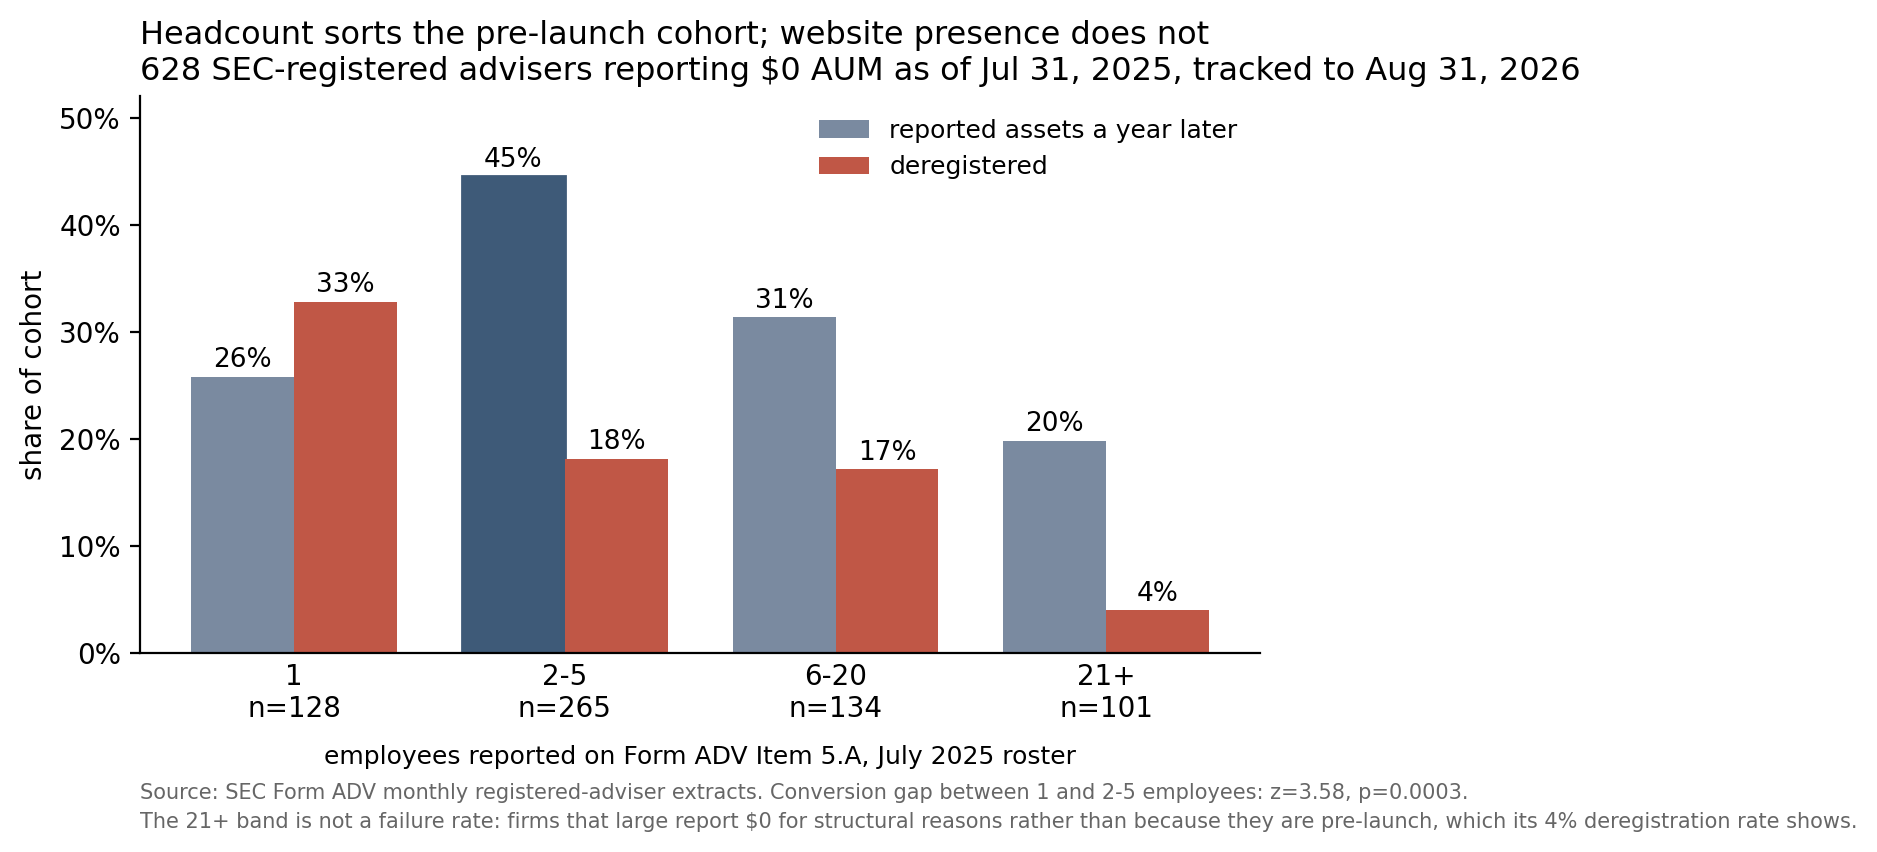
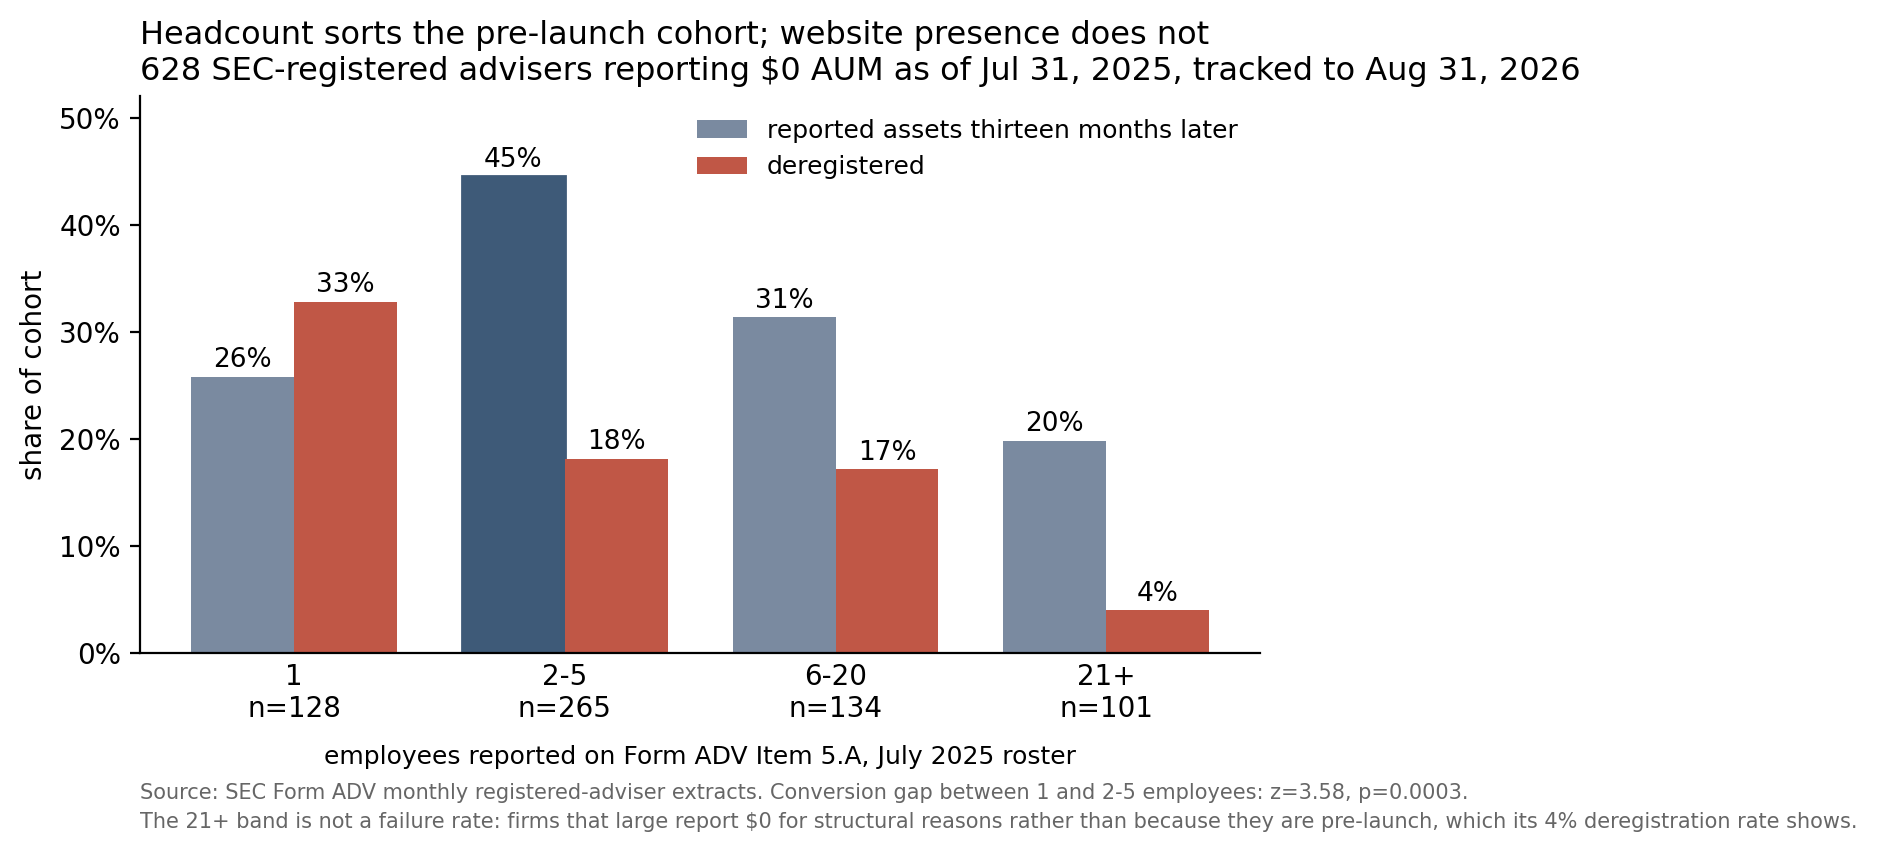
Say thirteen months, not a year, in the headline and chart legend
The cohort is the July 31, 2025 roster tracked to August 31, 2026: thirteen
months. The report's headline and the headcount chart's legend said "a year
later". Both now say "thirteen months later", on the site, in the PDF and
in the committed chart. The deploy gate now fails on "a year", "year later"
and "one year" anywhere on the site, alongside the other wrong window
lengths.

Changed region(s): [[0.3708, 0.1221, 0.6489, 0.2136]]

diff --git a/site/charts.py b/site/charts.py
@@ -739,7 +739,7 @@ def cross_check_svg_text(raw_svgs, fragments, bands_log, baseline_log):
             d21 = f"{float(GATE['bands'][3][4]):.0f}% deregistration rate"
             check(g, f"footnote 21+ band: {d21!r}", "present",
                   "present" if any(d21 in t for t in other) else "MISSING")
-            check(g, "legend", "reported assets a year later | deregistered", " | ".join(legend))
+            check(g, "legend", "reported assets thirteen months later | deregistered", " | ".join(legend))
         joined = "\n".join(t for _, t in frag)
         for s in FORBIDDEN:
             check(g, f"forbidden string {s!r} in chart text", 0, joined.count(s))
@@ -912,8 +912,11 @@ def main():
     changed = sorted(k for k in set(before) | set(after) if before.get(k) != after.get(k))
     check("read-only", "adv-report/ + archive/ files changed (size, mtime)", "[]", changed)
     status_after = git_status()
-    check("read-only", "git status --porcelain -- adv-report archive CLAUDE.md", "(empty)",
-          status_after or "(empty)")
+    # Unchanged by this run, not necessarily empty: a deliberate, uncommitted
+    # edit to the research code (e.g. a chart label) is the reason to rerun this.
+    # The size/mtime snapshot above is what proves nothing was written.
+    check("read-only", "git status --porcelain -- adv-report archive CLAUDE.md (unchanged by this run)",
+          status_before or "(empty)", status_after or "(empty)")
 
     preview = write_preview(fragments)
     print_table()

diff --git a/site/checks/selftest.py b/site/checks/selftest.py
@@ -306,7 +306,7 @@ def build_fixture(root: Path, tmp: Path) -> None:
             f'<a href="/adv/new_registrants.csv">Firm-level CSV</a> · <a href="{REPO_URL}">Repository</a></p>')
     body = link_code(body[:h1_end] + meta + body[h1_end:] + "\n" + adv_sources_section())
     (dst / "adv" / "index.html").write_text(
-        page("adv/index.html", "Two-thirds of pre-launch RIAs haven't launched a year later - Filings Trail",
+        page("adv/index.html", "Two-thirds of pre-launch RIAs haven't launched thirteen months later - Filings Trail",
              f"<main>\n{body}\n</main>", canonical="/adv"), encoding="utf-8")
     (dst / "index.html").write_text(page("index.html", "Filings Trail", root_main()), encoding="utf-8")
     (dst / "method" / "index.html").write_text(

diff --git a/site/verify.py b/site/verify.py
@@ -936,7 +936,7 @@ def check_A(bundle: Bundle, works: list[dict], site: dict, R: Report, pdf_rels_o
                 for m in re.finditer(rx, v, re.I):
                     hits.append(f'{rel}: /{rx}/ "{ctx_around(v, m.start(), m.end(), 40)}"')
     (R.fail("A-W", "a window length other than thirteen months appears", hits[:12]) if hits
-     else R.ok("A-W", "no other window length (twelve / 12 months / 12-month / fourteen / eleven) on any page or PDF"))
+     else R.ok("A-W", "no other window length (twelve / 12 months / 12-month / fourteen / eleven / a year / year later / one year) on any page or PDF"))
 
     # the root page's figure budget
     root_rel = site.get("root_page", "index.html")

diff --git a/adv-report/report_stats.py b/adv-report/report_stats.py
@@ -216,7 +216,7 @@ def headcount_chart(out="conversion_by_headcount.png"):
     w = 0.38
     fig, ax = plt.subplots(figsize=(8.5, 4.6), dpi=200)
     b1 = ax.bar([i - w / 2 for i in x], [r[2] for r in rows], w,
-                label="reported assets a year later", color="#7A8AA0")
+                label="reported assets thirteen months later", color="#7A8AA0")
     b2 = ax.bar([i + w / 2 for i in x], [r[3] for r in rows], w,
                 label="deregistered", color="#C05746")
     b1[1].set_color("#3E5A78")  # the 2-5 band is the screen

diff --git a/adv-report/REPORT.md b/adv-report/REPORT.md
@@ -1,4 +1,4 @@
-# Two-thirds of pre-launch RIAs haven't launched a year later
+# Two-thirds of pre-launch RIAs haven't launched thirteen months later
 
 There is a state a registered investment adviser can be in where it exists entirely on
 paper. It has a CRD number, an approved SEC registration and a filed brochure. It has no
